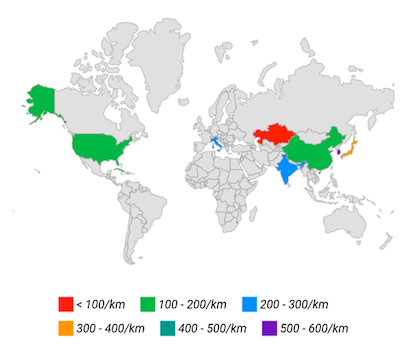
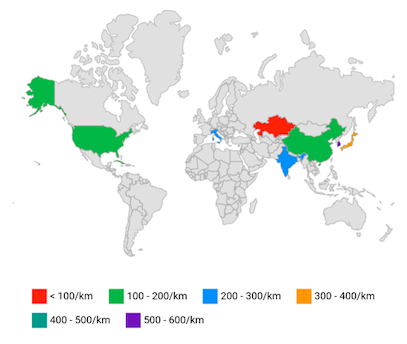
FLUT-1282-[feature][flutter]: added theme data properties in legend

diff --git a/Flutter/maps/legend.md b/Flutter/maps/legend.md
@@ -404,10 +404,10 @@ class Model {
 
 You can enable toggling the legend items and the corresponding shapes using the `MapLegendSettings.enableToggleInteraction` property. The default value of the `enableToggleInteraction` property is `false`. You can customize the toggled shapes using the following properties:
 
-* **toggledShapeColor** - Used to set the color for the toggled legend item's icon and it's shape.
-* **toggledShapeStrokeColor** - Used to set the stroke color which applies to the toggled legend item's shape.
-* **toggledShapeStrokeWidth** - Used to set the stroke width which applies to the toggled legend item's shape.
-* **toggledShapeOpacity** - Used to set the opacity to the toggled legend item's shape.
+* **toggledShapeColor** - Used to change the color for the toggled legend item's icon and it's shape.
+* **toggledShapeStrokeColor** - Used to change the stroke color which applies to the toggled legend item's shape.
+* **toggledShapeStrokeWidth** - Used to change the stroke width which applies to the toggled legend item's shape.
+* **toggledShapeOpacity** - Used to change the opacity to the toggled legend item's shape.
 
 {% tabs %}
 {% highlight Dart %}
@@ -475,8 +475,6 @@ Widget build(BuildContext context) {
                   ),
                   showLegend: true,
                   legendSettings: MapLegendSettings(
-                    position: MapLegendPosition.bottom,
-                    overflowMode: MapLegendOverflowMode.wrap,
                     enableToggleInteraction: true,
                     toggledShapeColor: Colors.grey,
                     toggledShapeStrokeWidth: 3,
@@ -501,7 +499,312 @@ class Model {
 {% endhighlight %}
 {% endtabs %}
 
+<b>Using SfMapsTheme</b>
+
+You can also customize the below appearance of the legend using the `SfMapsThemeData.toggledShapeColor`, `SfMapsThemeData.toggledShapeStrokeColor` and `SfMapsThemeData.toggledShapeStrokeWidth` properties.
+
+* **toggledShapeColor** - Used to change the color for the toggled legend item's icon and it's shape.
+* **toggledShapeStrokeColor** - Used to change the stroke color which applies to the toggled legend item's shape.
+* **toggledShapeStrokeWidth** - Used to change the stroke width which applies to the toggled legend item's shape.
+
+N> You must import the `theme.dart` library from the [`Core`](https://pub.dev/packages/syncfusion_flutter_core) package to use [`SfMapsTheme`](https://pub.dev/documentation/syncfusion_flutter_core/latest/theme/SfMapsTheme-class.html).
+
+{% tabs %}
+{% highlight Dart %}
+
+List<Model> data;
+
+@override
+void initState() {
+    super.initState();
+    data = <Model>[
+      Model('India', 280),
+      Model('United States of America', 190),
+      Model('Kazakhstan', 37),
+      Model('Italy', 201),
+      Model('Korea', 512),
+      Model('Japan', 335),
+      Model('Cuba', 103),
+      Model('China', 148)
+   ];
+}
+
+@override
+Widget build(BuildContext context) {
+    return Scaffold(
+      body: Center(
+        child: Container(
+          height: 350,
+          child: Padding(
+            padding: EdgeInsets.only(left: 15, right: 15),
+            child: SfMapsTheme(
+              data: SfMapsThemeData(
+                toggledShapeColor: Colors.grey,
+                toggledShapeStrokeWidth: 3,
+                toggledShapeStrokeColor: Colors.black,
+              ),
+              child: SfMaps(
+                layers: [
+                  MapShapeLayer(
+                    delegate: MapShapeLayerDelegate(
+                        shapeFile: "assets/world_map.json",
+                        shapeDataField: "name",
+                        dataCount: data.length,
+                        primaryValueMapper: (int index) => data[index].country,
+                        shapeColorValueMapper: (int index) => data[index].density,
+                        shapeColorMappers: [
+                          MapColorMapper(from: 0,
+                              to: 100,
+                              color: Colors.red,
+                              text: '< 100/km'),
+                          MapColorMapper(from: 101,
+                              to: 200,
+                              color: Colors.green,
+                              text: '100 - 200/km'),
+                          MapColorMapper(from: 201,
+                              to: 300,
+                              color: Colors.blue,
+                              text: '200 - 300/km'),
+                          MapColorMapper(from: 301,
+                              to: 400,
+                              color: Colors.orange,
+                              text: '300 - 400/km'),
+                          MapColorMapper(from: 401,
+                              to: 500,
+                              color: Colors.teal,
+                              text: '400 - 500/km'),
+                          MapColorMapper(from: 501,
+                              to: 600,
+                              color: Colors.deepPurple,
+                              text: '500 - 600/km'),
+                        ]
+                    ),
+                    showLegend: true,
+                    legendSettings: MapLegendSettings(
+                      enableToggleInteraction: true,
+                    ),
+                  )
+                ],
+              ),
+            ),
+          ),
+        ),
+      ),
+   );
+}
+
+class Model {
+   Model(this.country, this.density);
+
+   final String country;
+   final double density;
+}
+
+{% endhighlight %}
+{% endtabs %}
+
 ![Toggles legend items](images/legend/toggles-legend-items.png)
+
+## Text style
+
+You can customize the legend item's text style using the `MapLegendSettings.textStyle` property.
+
+{% tabs %}
+{% highlight Dart %}
+
+List<Model> data;
+
+@override
+void initState() {
+    super.initState();
+    data = <Model>[
+      Model('India', 280),
+      Model('United States of America', 190),
+      Model('Kazakhstan', 37),
+      Model('Italy', 201),
+      Model('Korea', 512),
+      Model('Japan', 335),
+      Model('Cuba', 103),
+      Model('China', 148)
+   ];
+}
+
+@override
+Widget build(BuildContext context) {
+    return Scaffold(
+      body: Center(
+        child: Container(
+          height: 350,
+          child: Padding(
+            padding: EdgeInsets.only(left: 15, right: 15),
+            child: SfMaps(
+              layers: [
+                MapShapeLayer(
+                  delegate: MapShapeLayerDelegate(
+                      shapeFile: "assets/world_map.json",
+                      shapeDataField: "name",
+                      dataCount: data.length,
+                      primaryValueMapper: (int index) => data[index].country,
+                      shapeColorValueMapper: (int index) => data[index].density,
+                      shapeColorMappers: [
+                        MapColorMapper(from: 0,
+                            to: 100,
+                            color: Colors.red,
+                            text: '< 100/km'),
+                        MapColorMapper(from: 101,
+                            to: 200,
+                            color: Colors.green,
+                            text: '100 - 200/km'),
+                        MapColorMapper(from: 201,
+                            to: 300,
+                            color: Colors.blue,
+                            text: '200 - 300/km'),
+                        MapColorMapper(from: 301,
+                            to: 400,
+                            color: Colors.orange,
+                            text: '300 - 400/km'),
+                        MapColorMapper(from: 401,
+                            to: 500,
+                            color: Colors.teal,
+                            text: '400 - 500/km'),
+                        MapColorMapper(from: 501,
+                            to: 600,
+                            color: Colors.deepPurple,
+                            text: '500 - 600/km'),
+                      ]
+                  ),
+                  showLegend: true,
+                  legendSettings: MapLegendSettings(
+                    textStyle: const TextStyle(
+                        color: Colors.red,
+                        fontSize: 16,
+                        fontWeight: FontWeight.bold,
+                        fontStyle: FontStyle.italic,
+                        fontFamily: 'Times'
+                    ),
+                  ),
+                )
+              ],
+            ),
+          ),
+        ),
+      ),
+   );
+}
+
+class Model {
+  Model(this.country, this.density);
+
+  final String country;
+  final double density;
+}
+
+{% endhighlight %}
+{% endtabs %}
+
+<b>Using SfMapsTheme</b>
+
+You can also customize the legend item's text style using the `SfMapsThemeData.legendTextStyle` property.
+
+N> You must import the `theme.dart` library from the [`Core`](https://pub.dev/packages/syncfusion_flutter_core) package to use [`SfMapsTheme`](https://pub.dev/documentation/syncfusion_flutter_core/latest/theme/SfMapsTheme-class.html).
+
+{% tabs %}
+{% highlight Dart %}
+
+List<Model> data;
+
+@override
+void initState() {
+    super.initState();
+    data = <Model>[
+      Model('India', 280),
+      Model('United States of America', 190),
+      Model('Kazakhstan', 37),
+      Model('Italy', 201),
+      Model('Korea', 512),
+      Model('Japan', 335),
+      Model('Cuba', 103),
+      Model('China', 148)
+   ];
+}
+
+@override
+Widget build(BuildContext context) {
+    return Scaffold(
+      body: Center(
+        child: Container(
+          height: 350,
+          child: Padding(
+            padding: EdgeInsets.only(left: 15, right: 15),
+            child: SfMapsTheme(
+              data: SfMapsThemeData(
+                legendTextStyle: TextStyle(
+                    color: Colors.red,
+                    fontSize: 16,
+                    fontWeight: FontWeight.bold,
+                    fontStyle: FontStyle.italic,
+                    fontFamily: 'Times'
+                ),
+              ),
+              child: SfMaps(
+                layers: [
+                  MapShapeLayer(
+                    delegate: MapShapeLayerDelegate(
+                        shapeFile: "assets/world_map.json",
+                        shapeDataField: "name",
+                        dataCount: data.length,
+                        primaryValueMapper: (int index) => data[index].country,
+                        shapeColorValueMapper: (int index) => data[index].density,
+                        shapeColorMappers: [
+                          MapColorMapper(from: 0,
+                              to: 100,
+                              color: Colors.red,
+                              text: '< 100/km'),
+                          MapColorMapper(from: 101,
+                              to: 200,
+                              color: Colors.green,
+                              text: '100 - 200/km'),
+                          MapColorMapper(from: 201,
+                              to: 300,
+                              color: Colors.blue,
+                              text: '200 - 300/km'),
+                          MapColorMapper(from: 301,
+                              to: 400,
+                              color: Colors.orange,
+                              text: '300 - 400/km'),
+                          MapColorMapper(from: 401,
+                              to: 500,
+                              color: Colors.teal,
+                              text: '400 - 500/km'),
+                          MapColorMapper(from: 501,
+                              to: 600,
+                              color: Colors.deepPurple,
+                              text: '500 - 600/km'),
+                        ]
+                    ),
+                    showLegend: true,
+                  )
+                ],
+              ),
+            ),
+          ),
+        ),
+      ),
+    );
+  }
+}
+
+class Model {
+  const Model(this.country, this.density);
+
+  final String country;
+  final double density;
+}
+
+{% endhighlight %}
+{% endtabs %}
+
+![Legend text style](images/legend/legend-text-style.png)
 
 ## Appearance customization
 
@@ -513,7 +816,6 @@ You can customize the legend items using the following properties.
 * **itemsSpacing** - Used to provide space between the each legend items. The default value of the `itemsSpacing` is `10.0`.
 * **direction** - Used to arrange the legend items in either horizontal or vertical direction. It defaults to `horizontal`, if the value of the `position` property is `top`, `bottom` and defaults to `vertical`, if the value of the `position` property is `left` or `right`.
 * **padding** - Used to set padding around the legend. The default value of the `padding` property is `EdgeInsets.all(10.0)`.
-* **textStyle** - Used to customize the legend item's text style.
 
 {% tabs %}
 {% highlight Dart %}
@@ -568,7 +870,6 @@ Widget build(BuildContext context) {
                     iconType: MapIconType.square,
                     iconSize: Size(15.0, 15.0),
                     itemsSpacing: 15,
-                    textStyle: TextStyle(fontStyle: FontStyle.italic, color: Colors.black)
                   ),
                 )
               ],
